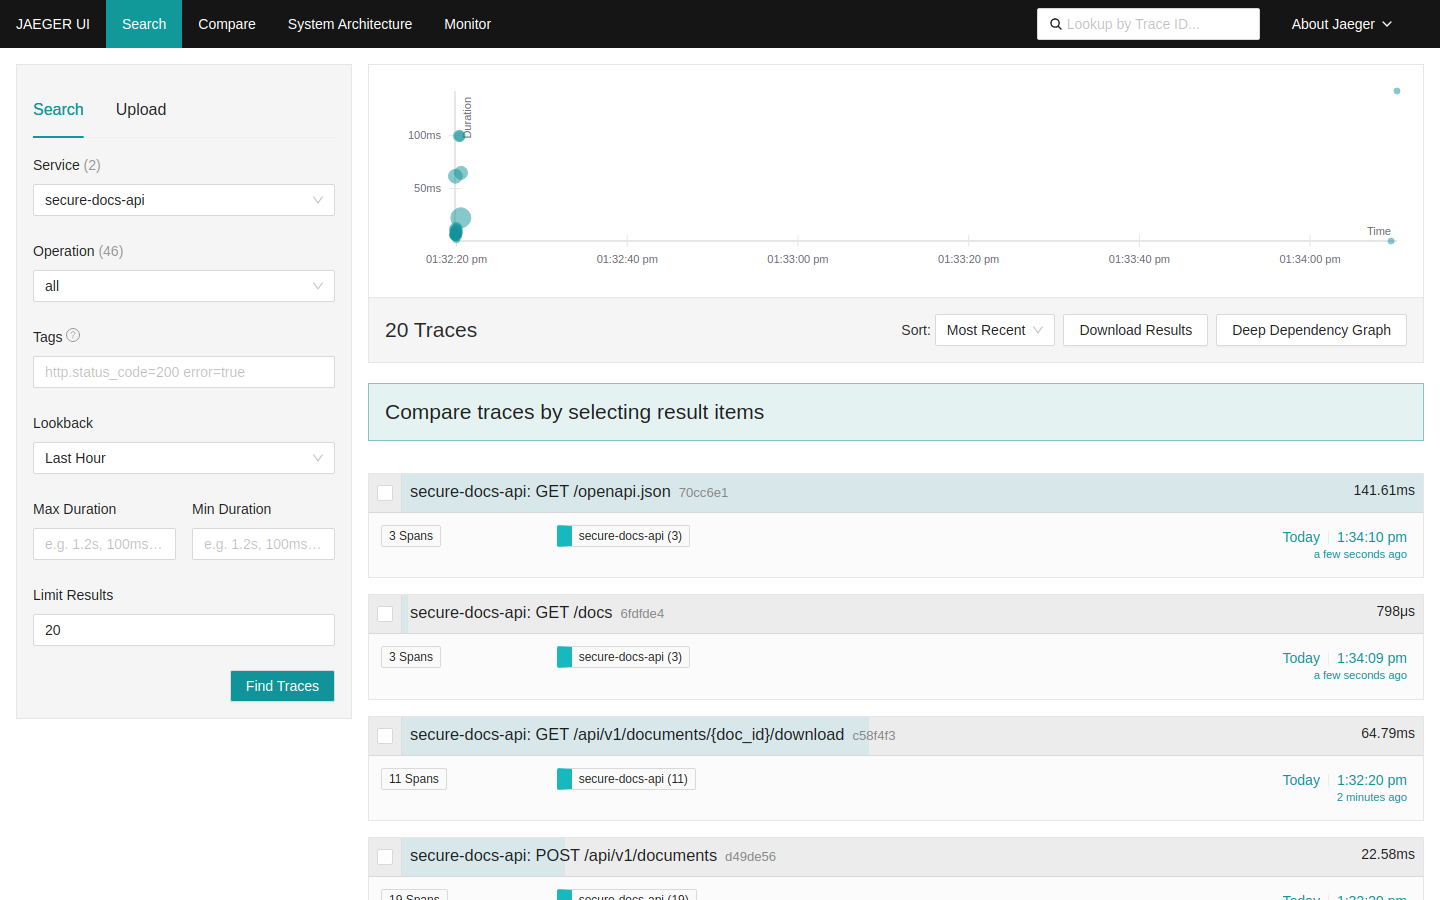
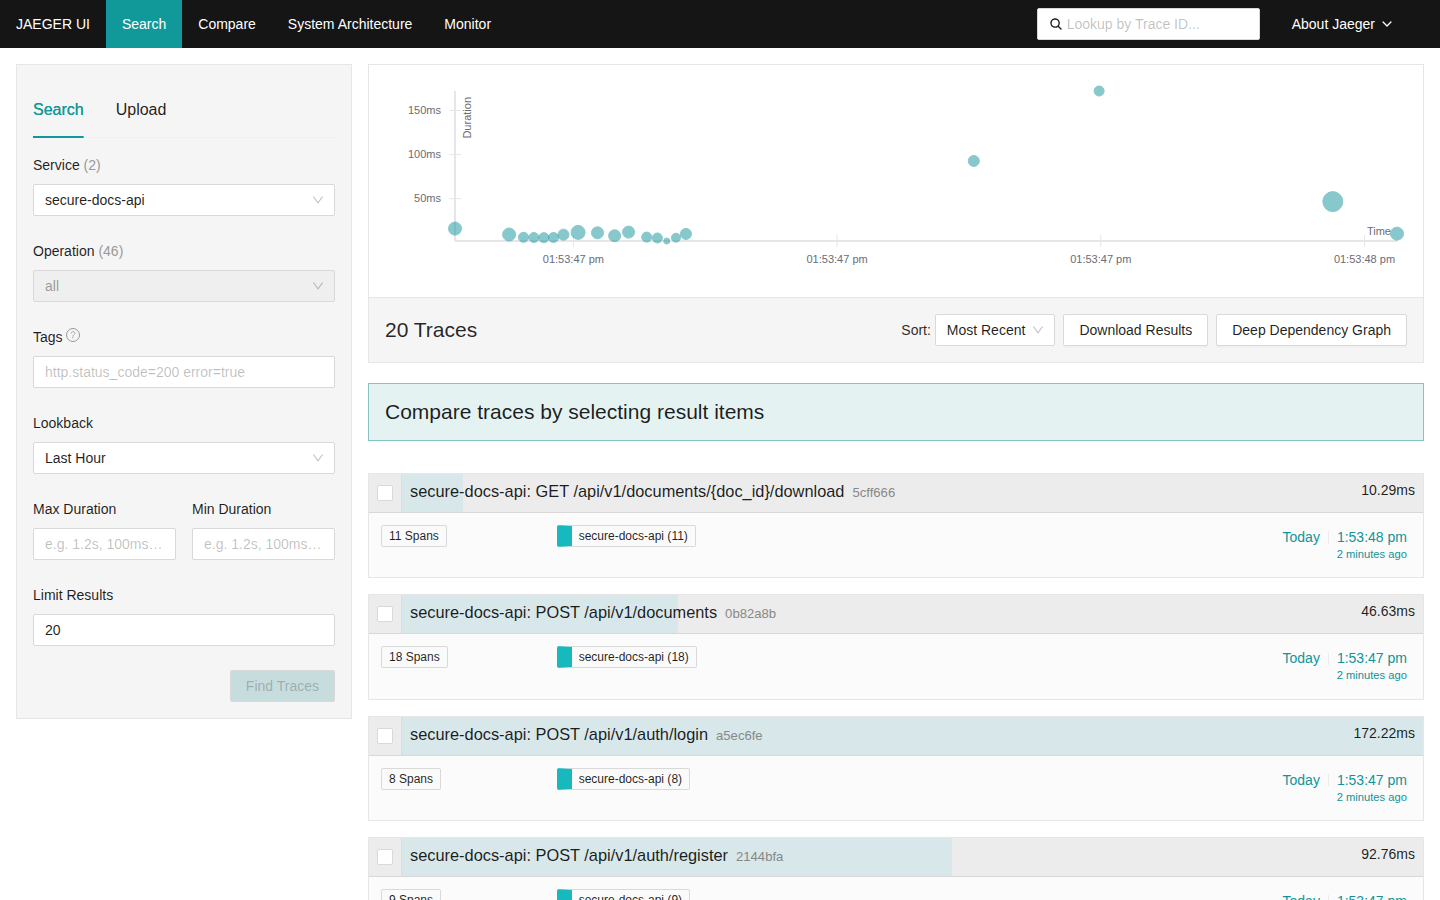
Rewrite README for portfolio review, add CI-captured screenshots, correct docs to match verified status

diff --git a/README.md b/README.md
@@ -1,78 +1,107 @@
 # Secure Document Platform
 
-A multi-tenant document management API built to be reviewed: tenant isolation enforced at four layers, short-lived signed downloads, expiring sharing, an append-only audit trail, and the infrastructure, pipelines and runbooks around it.
+A multi-tenant document management API with security engineering as the main subject: tenant isolation enforced at four layers including PostgreSQL row level security, short-lived signed downloads, expiring sharing, an append-only audit trail, and the infrastructure, pipelines, observability and runbooks around it. The AWS side is reference infrastructure that was validated and policy-scanned, not deployed.
 
-**Stack:** Python 3.12, FastAPI, SQLAlchemy 2 (async), PostgreSQL 16, Redis 7, S3-compatible storage (MinIO locally, S3 on AWS), Docker Compose, Terraform (AWS), GitHub Actions, Prometheus, Grafana, OpenTelemetry, pytest.
+**Stack:** Python 3.12, FastAPI, SQLAlchemy 2 (async), Alembic, PostgreSQL 16, Redis 7, S3-compatible storage, Docker Compose, Terraform (AWS), GitHub Actions, Prometheus, Grafana, OpenTelemetry, Jaeger, pytest.
 
 ![Swagger UI of the running API](docs/img/swagger-ui.png)
+
+## What this project demonstrates
+
+| Skill area | Where to look | Evidence |
+|---|---|---|
+| Backend architecture | [`app/`](app), [architecture](docs/architecture.md) | Async FastAPI service, explicit authorization layer, Alembic migrations, row-locked version allocation, atomic share-link counters, Redis-backed rate limits and refresh rotation |
+| Multi-tenant security | [`app/authz.py`](app/authz.py), [`tests/test_tenant_isolation.py`](tests/test_tenant_isolation.py) | Org-scoped queries, 404-for-foreign-ids, composite foreign keys, RLS, token claim cross-check; 13 attack scenarios |
+| PostgreSQL row level security | [`migrations/versions/0001_initial_schema.py`](migrations/versions/0001_initial_schema.py), [`app/db.py`](app/db.py) | Transaction-local tenant setting, unprivileged runtime role, startup guard that refuses a role able to bypass RLS, tests that attack the database directly |
+| Application security | [security review](docs/security-review.md), [threat model](docs/threat-model.md), [controls matrix](docs/security-controls.md) | JWT hardening, refresh replay detection, upload validation, header and CORS policy, log/trace scrubbing, documented limits |
+| AWS infrastructure as code | [`infra/`](infra), [infrastructure](docs/infrastructure.md), [review](docs/infrastructure-review.md) | Seven Terraform modules, least-privilege IAM, KMS, private data tier, optional WAF; validated, Checkov-clean, boot script executed against stubs in CI |
+| Docker and CI/CD | [`Dockerfile`](Dockerfile), [`docker-compose.yml`](docker-compose.yml), [`.github/workflows/`](.github/workflows) | Non-root read-only image, three pipelines, full compose stack started on a runner and exercised end to end |
+| Observability | [`deploy/`](deploy), [`app/observability.py`](app/observability.py) | Structured logs, Prometheus metrics and alerts, OpenTelemetry traces, provisioned Grafana dashboard, CI proof that telemetry reaches each backend |
+| Automated security testing | [`tests/`](tests), [security workflow](.github/workflows/security.yml) | Cross-tenant, expired-link, forged-token, replay, concurrency and RLS tests plus Bandit, Semgrep, CodeQL, pip-audit, Trivy, gitleaks, Checkov, TFLint |
+
+## Running stack, as captured
+
+Screenshots taken from the Compose stack running on a GitHub Actions runner (Prometheus scraping the API, Jaeger holding real traces, Grafana querying real metrics):
+
+| | |
+|---|---|
+| ![Prometheus target health](docs/img/compose-prometheus-targets.png) | ![Jaeger traces](docs/img/compose-jaeger-traces.png) |
+| Prometheus scraping the API with a bearer token (target UP). | Jaeger holding real traces from the demo traffic, with route-template span names. |
+
+![Grafana dashboard](docs/img/compose-grafana-dashboard.png)
+
+The provisioned Grafana dashboard querying live Prometheus data. The time axis is short because the demo runs for a few seconds; "No data" on the 5xx and rate-limit panels is correct, since neither occurred. These images are produced by `scripts/capture_screenshots.py` in the CI job, which fails if a page does not show its expected content.
 
 ## Try it
 
 ```bash
 make secrets                 # random local secrets into .env (git-ignored)
-docker compose up --build -d # API, Postgres, Redis, MinIO, Prometheus, Grafana, Jaeger
+docker compose up --build -d # API, Postgres, Redis, MinIO, Prometheus, Grafana, Jaeger, OTel collector
 python scripts/demo.py --base-url http://localhost:8000
+python scripts/verify_observability.py --env-file .env
 ```
 
-No cloud account is needed. Open `http://localhost:8000/docs` for the interactive API. Details and ports are in [docs/deployment.md](docs/deployment.md). The first build compiles MinIO from source because the project no longer publishes container images.
+No cloud account is needed. The first build compiles MinIO from source (see [MinIO caveats](docs/infrastructure-review.md#minio-source-build-strategy-for-local-development)). Ports and credentials: [deployment guide](docs/deployment.md).
 
-A real run of the demo walkthrough (captured against the API with a MinIO server behind it; full text in [docs/demo-output.txt](docs/demo-output.txt)):
+The demo walkthrough creates two organizations, uploads and versions a document, shares it, proves cross-tenant requests get 404, exercises a download-capped share link, and shows refresh-token theft detection and the audit trail. Output of a real run is in [`docs/demo-output.txt`](docs/demo-output.txt):
 
 ![Demo run](docs/img/demo-run.png)
 
-Direct API usage:
+## Architecture in one picture
 
-```bash
-curl -s localhost:8000/api/v1/auth/register -H 'content-type: application/json' -d '{
-  "organization_name":"Acme","organization_slug":"acme",
-  "email":"admin@acme.example","password":"correct-horse-battery-9"}'
-TOKEN=$(curl -s localhost:8000/api/v1/auth/login -H 'content-type: application/json' \
-  -d '{"email":"admin@acme.example","password":"correct-horse-battery-9"}' | jq -r .access_token)
-curl -s localhost:8000/api/v1/documents -H "Authorization: Bearer $TOKEN" \
-  -F file=@contract.pdf -F title="Merger contract" -F tags=legal,confidential
-curl -s localhost:8000/api/v1/documents/<id>/download -H "Authorization: Bearer $TOKEN"   # signed URL, 60 s
+```mermaid
+flowchart LR
+  user([Client]) -->|HTTPS| alb[ALB + optional WAF]
+  alb --> api[FastAPI service]
+  api -->|"role docs_app, RLS applies"| pg[(PostgreSQL 16)]
+  api --> redis[(Redis: rate limits, refresh tokens)]
+  api -->|upload / delete| s3[(S3 bucket, SSE-KMS)]
+  user -. "presigned GET, 60 s" .-> s3
+  api -->|OTLP| otel[OTel collector] --> jaeger[Jaeger]
+  prom[Prometheus] -->|bearer token| api
+  graf[Grafana] --> prom
 ```
 
-## What it does
-
-| Area | Behaviour |
-|---|---|
-| Tenancy | Organizations own their users, documents, grants, share links and audit log. Registering creates an organization and its first admin; admins invite users. |
-| Auth | Argon2id passwords with a policy, JWT access (15 min) and refresh (7 d) tokens, OAuth2 password and refresh grants at `/auth/token`, rotation with replay detection, logout, optional RS256 with JWKS and discovery documents. |
-| Authorization | Roles (admin, editor, viewer) intersected with per-document relationships (owner or grant). Grants can expire. |
-| Documents | Upload, versioned history, metadata and tags, full-text search over title and description, pagination, soft delete, admin hard delete that removes the objects. |
-| Downloads | Short-lived presigned URLs straight from object storage; the API never proxies file bytes. SHA-256 returned with each download. |
-| Sharing | Per-user grants with expiry, and public share links with mandatory expiry, optional download cap and revocation. |
-| Audit | Authentication, access, sharing, administrative changes and authorization denials; append-only at the database level. |
-| Operations | JSON logs with request and trace ids, Prometheus metrics, OpenTelemetry traces, liveness and readiness probes, alert rules, Grafana dashboard. |
+Details, sequence diagrams (auth, upload, download), the data model and the AWS topology: [docs/architecture.md](docs/architecture.md).
 
 ## Security design in brief
 
 * **Four-layer tenant isolation**: organization-scoped queries, composite foreign keys, PostgreSQL row level security bound per transaction, and a token claim cross-check. Foreign ids answer 404, indistinguishable from missing ones.
-* **Least privilege everywhere**: the API connects as a role that is neither owner, superuser nor `BYPASSRLS`; the audit table is append-only even for its owner; the EC2 role reaches one bucket, one key, three secrets and one repository; no SSH, IMDSv2 only.
-* **Sessions**: refresh tokens are single-use. A replayed token kills its whole session family and raises an alert.
+* **Least privilege**: the API connects as a role that is neither owner, superuser nor `BYPASSRLS`, and refuses to start otherwise; the audit table is append-only even for its owner; the EC2 role reaches one bucket, one key, three secrets and one repository; no SSH, IMDSv2 only.
+* **Sessions**: refresh tokens are single use; a replay revokes the whole session family and raises an alert.
+* **Downloads**: short-lived presigned URLs straight from object storage. An issued URL cannot be revoked and stays valid until it expires (60 s default, 300 s cap); this and other limits are spelled out in the [security review](docs/security-review.md).
 * **Uploads**: streamed size cap, type allowlist with magic-byte verification, sanitized names, random object keys, attachment-only downloads.
-* **Abuse controls**: Redis rate limits (5 logins/min/IP, 100 requests/min/user, public link endpoint limited), per-account lockout, trusted-proxy aware client address, fail-closed behaviour when Redis is down.
-* **Supply chain and scanning in CI**: Ruff, mypy strict, Bandit, Semgrep, pip-audit, Trivy (filesystem, IaC, image), gitleaks, CodeQL, Checkov, Dependabot.
-
-Read more: [architecture](docs/architecture.md), [threat model](docs/threat-model.md), [controls matrix](docs/security-controls.md), [infrastructure and costs](docs/infrastructure.md), [deployment](docs/deployment.md), [incident response runbook](docs/runbooks/incident-response.md).
+* **Abuse controls**: Redis rate limits, per-account lockout, trusted-proxy aware client address, fail-closed when Redis is down.
+* **Telemetry hygiene**: share-link tokens, credentials and bound SQL values are kept out of logs, metrics and traces, with tests.
 
 ## Verification status
 
-Everything in this table was run while building the repository.
+Every result below comes from a run on the final commit or is labelled otherwise. Nothing is estimated.
 
 | Check | Result |
 |---|---|
-| Test suite on PostgreSQL 16 + Redis 7 + moto S3 | 108 passed, 1 skipped (the skip needs a real S3 server) |
-| Same suite on a real MinIO server built from source | 109 passed, including presigned URL expiry and tampered-signature rejection |
-| Coverage of `app/` | 93.8 percent (CI gate: 80) |
-| Security-focused tests | tenant isolation (13 scenarios), RBAC and expiring grants, share links (expired, revoked, capped, concurrent), forged and expired tokens, refresh replay, upload attacks, header and CORS checks, RLS and append-only audit at the database level, concurrent uploads, downloads and grants |
-| ruff, mypy `--strict` | clean |
-| Bandit, Semgrep (python, OWASP, jwt packs), pip-audit | no findings |
-| Terraform | `fmt` and `validate` pass; Checkov 258 passed, 0 failed, 17 documented skips |
-| End-to-end demo through `uvicorn` | all checks passed |
+| GitHub Actions on the pull request | CI (lint, strict mypy, unit, PostgreSQL and Redis integration, real-MinIO integration, image build and scan, full compose smoke test), Security (Bandit, Semgrep, pip-audit, gitleaks, Trivy, CodeQL) and Infrastructure (Terraform fmt, validate, TFLint, Checkov, boot-script verification): all green |
+| Test suite, PostgreSQL 16 + Redis 7 + moto S3 | 112 passed, 1 skipped (the skipped test needs a real S3 server) |
+| Test suite against a real MinIO server | 113 passed, including presigned-URL expiry and tampered-signature rejection |
+| Coverage of `app/` | 93.4 percent measured locally (CI gate: 80 percent) |
+| Compose stack on a GitHub runner | API, PostgreSQL 16, Redis, MinIO, Prometheus, Grafana, OpenTelemetry Collector and Jaeger start; the demo passes against the containers; MinIO enforces presigned-URL expiry; Prometheus has application metrics, Jaeger has traces with no share-link tokens, and a Grafana panel query returns real samples |
+| Static analysis | ruff and `mypy --strict` clean; Bandit, Semgrep (python, OWASP, jwt packs) and pip-audit: no findings; gitleaks over the full history: clean; CodeQL (security-extended): no results; Trivy (filesystem, IaC, image): clean, with two intentional IaC findings annotated |
+| Terraform | `fmt`, `validate`, TFLint pass; Checkov 258 passed, 0 failed, 17 skips each annotated at the resource; the EC2 boot script is rendered and executed against stubs |
 
-**Not exercised here, and not claimed:** nothing was deployed to AWS (Terraform was validated and policy-scanned, never planned or applied); the Docker images and `docker compose up` were not built or run because the sandbox had no Docker daemon (the Compose file passes `docker compose config`); the GitHub Actions workflows are syntactically valid but have not run; Trivy, gitleaks, CodeQL and tflint run only in CI. The Grafana dashboard and Jaeger setup are provisioned from files and were not rendered, so there are no screenshots of them. Local test runs used Python 3.13; the Dockerfile and CI target 3.12.
+**Not exercised, and not claimed:** nothing was deployed to AWS. Terraform was validated and policy-scanned, never planned or applied, so IAM, IMDS, ECR, KMS grants, WAF and similar AWS behavior is unverified; the specific list is in [docs/infrastructure-review.md](docs/infrastructure-review.md#unverified-aws-specific-behavior). There are no benchmarks or load tests. Local runs used Python 3.13; the Dockerfile and CI use 3.12.
+
+## Engineering Decisions & Interview Talking Points
+
+1. **Why three isolation layers instead of just RLS?** RLS is the safety net, not the primary control: application checks give the right error semantics (404, audit of denials), composite foreign keys make cross-tenant references impossible to even store, and RLS catches the query someone forgets to scope. The honest gap: `users` and `organizations` have no RLS because login must resolve an email before any tenant is known.
+2. **Making RLS safe with a connection pool.** The tenant id is set with `set_config(..., true)` (transaction-local) from an `after_begin` hook, so a pooled connection can never carry one request's tenant into the next. The silent failure mode of RLS (owner or `BYPASSRLS` roles skip it) is closed with a startup guard, found during review rather than by a test.
+3. **Presigned URLs versus proxying downloads.** Redirecting to object storage keeps large transfers off the API and keeps credentials out of clients, at the cost that issued URLs cannot be revoked. I chose a short TTL with a hard cap and documented the window instead of hiding it.
+4. **Concurrency by construction.** Version numbers are allocated under a row lock, download caps are one conditional `UPDATE ... RETURNING`, refresh rotation uses an atomic `GETDEL`. The concurrent-upload test caught a real bug (a stale ORM instance returned the old version number even under `FOR UPDATE`).
+5. **Share-link token design.** `{org_id}.{256-bit secret}`: the prefix lets the unauthenticated endpoint bind the right tenant for RLS before any lookup, only a hash is stored, and the token is scrubbed from traces and logs (a leak found by reading the instrumentation output).
+6. **Refresh-token theft detection.** Rotation plus family revocation means a stolen token is detected on first reuse. The trade-off, a lost response looks like a replay, is intentional and documented.
+7. **What CI and review caught that local tests did not.** A test that re-keyed a shared DB role (broke only with CI's different password), a Trivy action tag that did not resolve, TFLint module constraints, a host-header check that would have failed every ALB health check, a container-unreachable instance metadata hop limit, a missing KMS grant for alarm delivery, and an `awscli` package that does not exist on Amazon Linux 2023. Several of those would only have surfaced during a real deployment.
+8. **Cost-aware cloud design.** EC2 behind an ALB with a single NAT keeps the baseline near 100 USD a month; the doc lists what to add for production (second AZ, Multi-AZ RDS, WAF, per-AZ NAT) and what each costs. Choosing not to deploy is explicit: nothing here claims a live environment.
+9. **A dependency decision I would revisit.** MinIO stopped maintaining its community edition and is AGPL; it is confined to local development and CI behind localhost, built from a pinned commit, and the code only needs the S3 API, so replacing it is a one-service change.
+10. **What I would do next.** Malware scanning on upload, audit log shipping to an object-locked bucket, an external identity provider, RS256 key rotation with overlap, a password change and reset flow, and a second application instance.
 
 ## Repository map
 
@@ -80,18 +109,14 @@ Everything in this table was run while building the repository.
 app/                 FastAPI service (routers, authz, security, storage, middleware, observability)
 migrations/          Alembic: explicit DDL, RLS policies, audit trigger, least-privilege grants
 tests/               pytest suites; tests/infra.py starts throwaway Postgres, Redis and S3
-scripts/             demo, local (Docker-free) stack, DB role bootstrap, bucket init, expiry check
+scripts/             demo, observability verification, screenshots, DB role bootstrap, local stack
 deploy/              Prometheus, Grafana, OTel collector, Postgres init, MinIO build
-infra/               Terraform modules and the dev environment
-docs/                architecture, threat model, controls, infrastructure, deployment, runbook
+infra/               Terraform modules, dev environment, boot-script verification
+docs/                architecture, threat model, controls, reviews, infrastructure, deployment, runbook
 .github/workflows/   ci, security, infra pipelines; dependabot
 SPEC.md              the original specification this implementation started from
 ```
 
-## Differences from SPEC.md
+## Known limitations
 
-The specification predates the multi-tenancy requirement, so organizations were added to every table and rule. Other deliberate differences: `is_deleted` became a `deleted_at` timestamp; liveness and readiness live at `/health` and `/health/ready` (outside the versioned prefix, so load balancers and probes do not depend on API versions); SQLAlchemy is pinned below 2.1 because the OpenTelemetry instrumentation does not support it yet; the spec's "EC2 + docker compose" target is realised as EC2 running the container under systemd rather than the Compose file; integration tests use CI service containers (or locally started binaries) instead of `docker compose`.
-
-## Known limits
-
-Single application instance in the reference deployment, no malware scanning of uploads, metadata-only search, HS256 shared secret by default (RS256 available), and no external identity provider federation. [docs/threat-model.md](docs/threat-model.md) lists these with the trade-offs.
+Single application instance in the reference deployment; no malware scanning of uploads; metadata-only search; HS256 shared secret by default (RS256 available); no external identity provider federation, password reset or MFA; issued presigned URLs cannot be revoked before they expire; admin hard delete does not erase object versions immediately on a versioned bucket; MinIO, used only for local development and tests, is unmaintained upstream and AGPL-licensed. Each is explained with its trade-off in the [security review](docs/security-review.md), the [threat model](docs/threat-model.md) and the [infrastructure review](docs/infrastructure-review.md).

diff --git a/docs/deployment.md b/docs/deployment.md
@@ -68,9 +68,8 @@ Set `enable_waf = true` and `enable_elasticache = true` for a production-shaped 
 
 | Path | Status |
 |---|---|
-| Application, migrations, RLS, share links, concurrency | Tested against real PostgreSQL 16 and Redis; S3 through moto and through a MinIO server built from source |
-| `scripts/local_stack.py` plus `scripts/demo.py` | Run end to end locally (output in `docs/demo-output.txt`) |
-| Terraform | `fmt`, `validate`, Checkov. Never planned or applied |
-| `docker compose up`, the Dockerfile, `minio` source build inside Docker | `docker compose config` validates the file; images were not built because no Docker daemon was available in the sandbox |
-| GitHub Actions workflows | YAML parsed; not executed |
-| EC2 user-data boot script | Reviewed only |
+| Application, migrations, RLS, share links, concurrency | Tested against real PostgreSQL 16 and Redis, with S3 through moto and through a MinIO server built from source, locally and in GitHub Actions |
+| `docker compose up` from a clean checkout | Runs in GitHub Actions on every pull request: the whole stack starts, `scripts/demo.py` passes, presigned URL expiry is enforced by MinIO, and `scripts/verify_observability.py` confirms Prometheus, Jaeger and Grafana receive real data |
+| Docker image | Built and Trivy-scanned in GitHub Actions; the CI asserts it runs as a non-root user |
+| Terraform | `fmt`, `validate`, TFLint, Checkov and Trivy pass in GitHub Actions; the EC2 boot script is rendered and executed against stubs by `infra/tests/verify_user_data.py`. **Never planned or applied** |
+| Anything that needs real AWS | Unverified; the list is in [infrastructure-review.md](infrastructure-review.md#unverified-aws-specific-behavior) |

diff --git a/docs/security-controls.md b/docs/security-controls.md
@@ -45,4 +45,4 @@ Each control names where it is implemented and which automated check proves it. 
 | Checkov | `infra/` | 258 passed, 0 failed, 17 skipped; every skip is annotated at the resource with a reason |
 | `terraform validate` | `infra/environments/dev` | valid (no plan or apply was run: no AWS credentials were used) |
 
-Trivy, gitleaks, CodeQL and tflint are wired into CI but were not run locally, because the tools or the registries behind them were not available in the development sandbox.
+Trivy (filesystem and image), gitleaks, CodeQL and TFLint run in GitHub Actions on every pull request; Trivy and gitleaks were also run locally. See [security-review.md](security-review.md) for what the manual review added on top of the scanners.

diff --git a/docs/architecture.md b/docs/architecture.md
@@ -175,6 +175,8 @@ erDiagram
 
 ## Observability
 
+In the local Compose stack Prometheus, Grafana, the OpenTelemetry collector and Jaeger are all present. The AWS reference deployment ships logs to CloudWatch and alerts through CloudWatch alarms only; `/metrics` is deliberately not reachable through the ALB and no Prometheus is deployed there.
+
 | Signal | Implementation |
 |---|---|
 | Logs | structlog JSON on stdout: request id, user id, organization id, trace id; secrets are redacted by key name |
